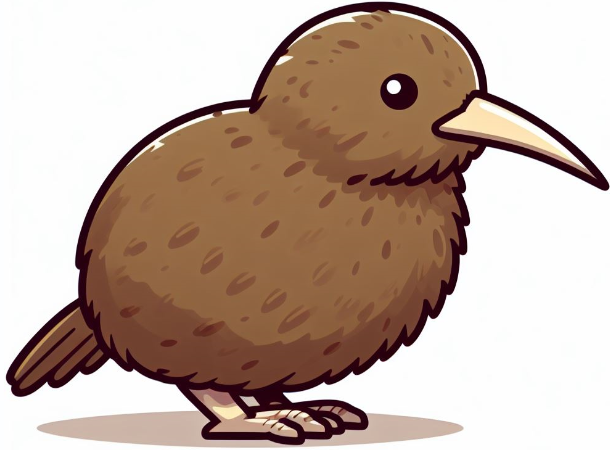
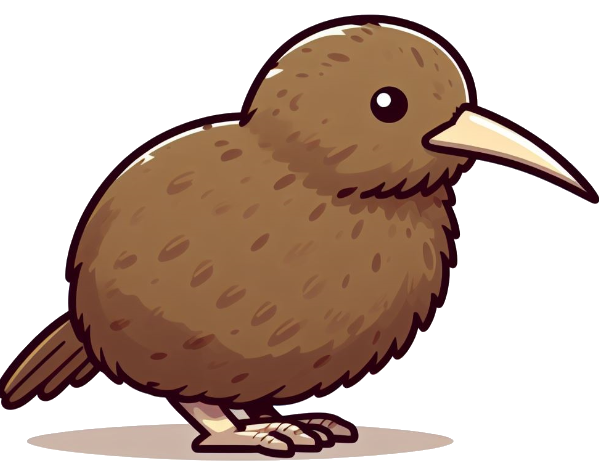
made kiwi img transparent and added comments

diff --git a/game.js b/game.js
@@ -22,6 +22,7 @@ canvas.height = 720;
 
 let level = 0;
 
+//player propertiess
 let player = {
   x: undefined,
   y: undefined, 
@@ -35,10 +36,11 @@ let player = {
   isMovingRight: false,
   isFading: false,
   fadeDuration: 2000, // 2000 milliseconds (2 seconds)
-  alpha: 1.0,
+  alpha: 1.0, //transparency basically
   hasKiwiSpirit: false
 };
 
+//some variables
 let currentAnimationFrame = null;
 let gravity = 0.5;
 let touchingPortal = false
@@ -293,7 +295,8 @@ function resetVars() {
   
   console.log('reset vars')
   ctx.clearRect(0, 0, canvas.width, canvas.height);
-}
+} //end of reset vars function
+
 
 function checkCondition() {
     const titleScreen = document.getElementById("titleScreen");
@@ -305,10 +308,10 @@ function checkCondition() {
     }
 }
 
+
 function MainMenu() {
     ctx.clearRect(0, 0, canvas.width, canvas.height);
 }
-
 
 let keys = {};
 
@@ -349,7 +352,7 @@ function restartGame() {
   }
 }
 
-
+//the following functions check for collisions and then when collision is true an action can be done
 function playerCollision(player, platform) {
   return (
     player.x < platform.x + platform.width &&
@@ -399,6 +402,7 @@ function isOnPlatform() {
   return false;
 }
 
+//all the drawing functions
 function drawPowerUpJumpBoost() {
   for (let powerUpJump of powerUpJumpBoost) {
     powerUpJump.alpha = powerUpJump.Alpha;
@@ -423,6 +427,7 @@ function drawPortal() {
 function drawKiwiSpirit() {
   if (!player.hasKiwiSpirit) {
     kiwiSpirit.alpha = kiwiSpirit.Alpha;
+
     //chat gpt helped me with getting rounded edges
     const kiwiSpiritRadius = 10;
 
@@ -467,7 +472,8 @@ function displayPopup(message, color, kiwiSpiritColor) {
   }, 2000);
 }
 
-//chat gpt helped with the math for this function
+
+//chat gpt helped with the math for this function //this funcion tests for collisions and then decides what to do when a collision is detected
 function handleCollisions() {
   for (let platform of platforms) {
     if (playerCollision(player, platform)) {
@@ -534,16 +540,15 @@ function handleCollisions() {
       } 
     });
   }
-  
 
  if (playerCollisionPortal(player, portal)) {
   console.log('player touched portal');
   touchingPortal = true;
  }
-}
+} //end of collision function
 
 
-function playerUpdate() {
+function playerUpdate() { //this just updates the player 
 
   if (!player.isJumping) {
     player.velocityY += gravity;  
@@ -553,6 +558,7 @@ function playerUpdate() {
 
   player.y += player.velocityY;
 
+  //part of the calculation for when player is jumping
   if (player.y >= canvas.height - player.height) {
     player.y = canvas.height - player.height;
     player.isJumping = false;

diff --git a/styling.css b/styling.css
@@ -63,7 +63,7 @@ button {
     font-weight: bold;
     font-size: 28px;
     cursor: pointer;
-    color: black;
+    color: red;
     border-width: 10px;
     width: 150px;
     height: 100px;
